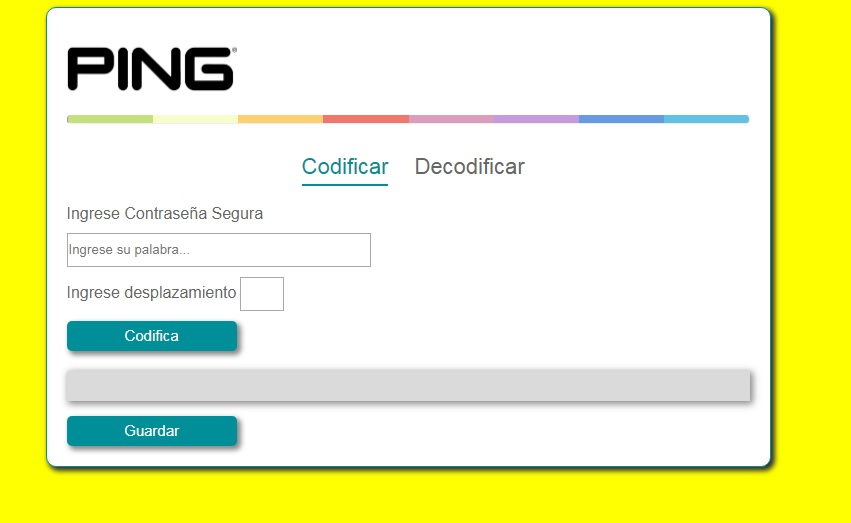
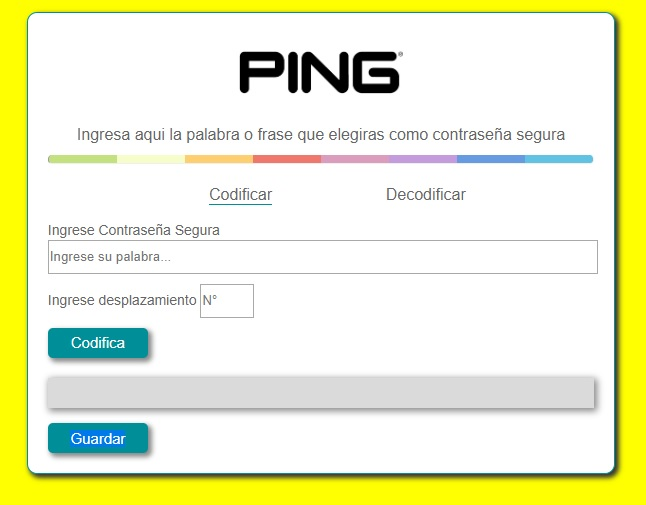
Version 6.1

diff --git a/src/index.html b/src/index.html
@@ -1,15 +1,9 @@
 <!DOCTYPE html>
-<<<<<<< HEAD
 <html lang="en">
-
-=======
-<html>
->>>>>>> 3ab7abcd5729addb94d4fa22893a8b4a1184fd51
 <head>
     <meta charset="utf-8">
-    <html lang="en">
     <title>Caesar Cipher</title>
-    <link rel="stylesheet" href="style.css" />
+    <link rel="stylesheet" href="style.css"/>
 </head>
 
 <body>
@@ -18,15 +12,10 @@
     <section id="contentCipher" class="content">
         <!--CABECERA-->
         <header class="contentHeader">
-<<<<<<< HEAD
             <div>
                 <h1><img class="img" src="..\img\ping-logo.jpg" alt="logo"></h1>
                 <p class="content1">Ingresa aqui la palabra o frase que elegiras como contraseña segura</p>
             </div>
-=======
-            <h1><img class="img" src="../img/ping-logo.jpg" alt="logo"></h1>
-            <p>Sus datos estaran protegidos, ingrese una palabra o frase para codificarla y en la siguiente pestaña podra decodificarla.</p>
->>>>>>> 3ab7abcd5729addb94d4fa22893a8b4a1184fd51
         </header>
 
             <div>
@@ -73,14 +62,9 @@
         </div>
     </section>
 
-<<<<<<< HEAD
     <!--¡¡¡¡¡¡Archivos de enlace JS!!!!!-->
-=======
-    <!--Enlace con Javascript!-->
->>>>>>> 3ab7abcd5729addb94d4fa22893a8b4a1184fd51
     <div id="root"></div>
     <script src="cipher.js"></script>
     <script src="index.js"></script>
 </body>
-
 </html>
